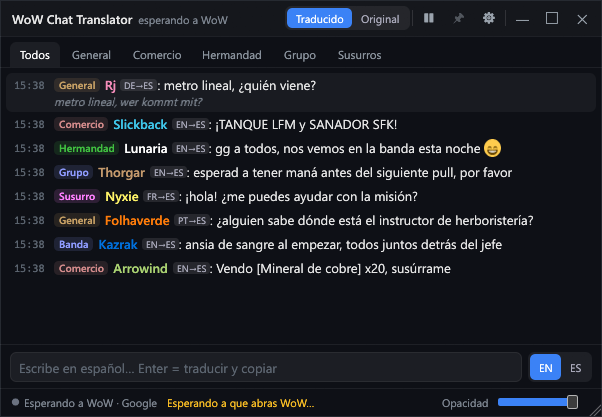
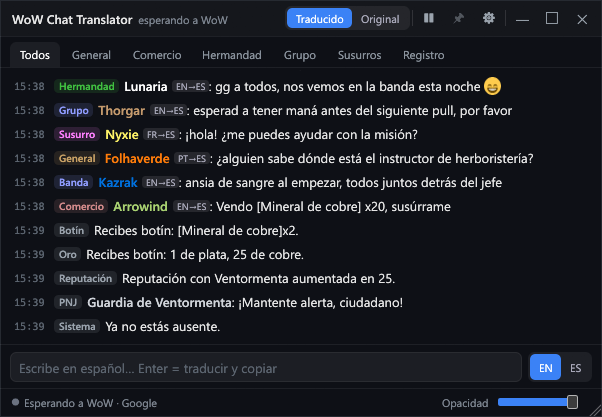
feat(native): right-click Ver original per message instead of hover; offline sample screenshots

diff --git a/native/src/app/ui.rs b/native/src/app/ui.rs
@@ -1,6 +1,8 @@
 //! The overlay window drawing (port of `app/src/renderer/overlay.html` + `overlay.js`).
 //! Only drawing and input here; state rules live in `messages`, `style`, `shared`.
 
+use std::cell::Cell;
+use std::collections::HashSet;
 use std::sync::{Arc, Mutex};
 use std::time::{Duration, Instant};
 
@@ -15,7 +17,7 @@ use crate::core::pipeline::{OverlayItem, Status, UiEvent};
 use crate::core::prefs::Bounds;
 
 use super::compose::{self, copied_message, failed_message, translate_outgoing, OUT_LANGS};
-use super::messages::{badge, can_translate, shows_translation, BadgeKind, Mode, Row, Tab};
+use super::messages::{badge, can_translate, flip_label, row_mode, shows_translation, BadgeKind, Mode, Row, Tab};
 use super::settings::{self, SettingsState};
 use super::shared::Shared;
 use super::style::{self, channel_label, class_color, tab_color};
@@ -48,8 +50,9 @@ pub struct OverlayApp {
     settings: Arc<Mutex<SettingsState>>,
     icon: Option<Arc<egui::IconData>>,
     compose: Compose,
-    /// `WCT_DEV_STATE=hover`: draws the first translated row as hovered (screenshots).
-    dev_hover: bool,
+    /// Rows the user flipped from the context menu ("Ver original" / "Ver traducción"):
+    /// they show the other text than the global Traducido / Original mode.
+    flipped: HashSet<u64>,
     /// `WCT_DEV_STATE=menu`: draws the row context menu on this message (screenshots).
     dev_menu: Option<u64>,
     /// `WCT_DEV_STATE=select`: drags the mouse over the first message with synthetic
@@ -92,7 +95,7 @@ impl OverlayApp {
             opacity,
             last_bounds: None,
             bounds_dirty_since: None,
-            dev_hover: false,
+            flipped: HashSet::new(),
             dev_menu: None,
             dev_select: None,
             first_row_rect: None,
@@ -110,7 +113,6 @@ impl OverlayApp {
         for part in spec.split(',').map(str::trim) {
             match part.split_once('=') {
                 Some(("settings", pane)) => settings::dev_open(ctx, &self.shared, &self.settings, pane),
-                _ if part == "hover" => self.dev_hover = true,
                 _ if part == "menu" => self.dev_menu = Some(900_001),
                 _ if part == "select" => self.dev_select = Some(0),
                 _ if part == "addon" => super::addon_panel::dev_open(&self.shared),
@@ -291,6 +293,7 @@ impl OverlayApp {
         let (picked, over) = widgets::segmented(ui, Id::new("mode-seg"), &items, self.mode, pad, 20.0);
         if let Some(mode) = picked {
             self.mode = mode;
+            self.flipped.clear(); // the global switch sets every row again
             self.scroll_to_bottom = true;
         }
         over
@@ -327,6 +330,7 @@ impl OverlayApp {
 
     fn messages(&mut self, ui: &mut Ui, font_size: f32) {
         let mut clicked = None;
+        let mut flip = None;
         {
             let model = self.shared.model();
             // Dragging over the list selects text (like Electron), it does not scroll it.
@@ -345,13 +349,11 @@ impl OverlayApp {
                 ui.style_mut().interaction.selectable_labels = true;
                 ui.spacing_mut().item_spacing.y = 0.0;
                 let mut any = false;
-                let mut force_hover = self.dev_hover;
                 let mut row_index = 0;
                 for row in model.list.visible() {
                     any = true;
-                    let forced = force_hover && shows_translation(&row.item, self.mode);
-                    force_hover &= !forced;
-                    let resp = message_row(ui, row, self.mode, font_size, forced || self.dev_menu == Some(row.item.id));
+                    let mode = row_mode(self.mode, self.flipped.contains(&row.item.id));
+                    let resp = message_row(ui, row, mode, font_size, self.dev_menu == Some(row.item.id));
                     if self.first_row_rect.is_none() || row_index == 0 {
                         self.first_row_rect = Some(resp.rect);
                     }
@@ -359,7 +361,7 @@ impl OverlayApp {
                     if resp.clicked() && can_translate(&row.item) {
                         clicked = Some(row.item.id);
                     }
-                    let shown = if shows_translation(&row.item, self.mode) {
+                    let shown = if shows_translation(&row.item, mode) {
                         row.item.translated.clone().unwrap_or_default()
                     } else {
                         row.item.original.clone()
@@ -370,8 +372,16 @@ impl OverlayApp {
                             shared.log.write(&format!("copy failed: {e}"));
                         }
                     };
+                    let flip_clicked = Cell::new(false);
                     let menu = |ui: &mut Ui| {
                         widgets::field_style(ui);
+                        if let Some(label) = flip_label(&row.item, mode) {
+                            if ui.button(label).clicked() {
+                                flip_clicked.set(true);
+                                ui.close();
+                            }
+                            ui.separator();
+                        }
                         if ui.button("Copiar mensaje").clicked() {
                             copy(&shown);
                             ui.close();
@@ -394,6 +404,9 @@ impl OverlayApp {
                     } else {
                         resp.context_menu(menu);
                     }
+                    if flip_clicked.get() {
+                        flip = Some(row.item.id);
+                    }
                 }
                 if !any {
                     ui.add_space(30.0);
@@ -402,6 +415,11 @@ impl OverlayApp {
                     });
                 }
             });
+        }
+        if let Some(id) = flip {
+            if !self.flipped.remove(&id) {
+                self.flipped.insert(id);
+            }
         }
         if let Some(id) = clicked {
             self.shared.translate_by_id(id);
@@ -746,16 +764,14 @@ fn tab_button(ui: &mut Ui, label: &str, on: bool, count: Option<u32>) -> Respons
 }
 
 /// One chat line: time, channel tag, player, badge, text (with colored emoji).
-fn message_row(ui: &mut Ui, row: &Row, mode: Mode, fs: f32, force_hover: bool) -> Response {
+/// One message. `highlight` draws it as hovered (screenshots of its context menu).
+fn message_row(ui: &mut Ui, row: &Row, mode: Mode, fs: f32, highlight: bool) -> Response {
     let item = &row.item;
     let show_t = shows_translation(item, mode);
     let clickable = can_translate(item);
     let bg_slot = ui.painter().add(Shape::Noop);
     let body_h = fs * 1.35;
     let row_id = Id::new(("msg-row", item.id));
-    // `.m:hover .orig`: hover is judged on the whole row as drawn last frame, so the
-    // original line shows up in the same frame the pointer enters the row.
-    let hovered = force_hover || ui.ctx().read_response(row_id).is_some_and(|r| ui.rect_contains_pointer(r.rect));
 
     let inner = Frame::new().inner_margin(Margin::symmetric(8, 3)).show(ui, |ui| {
         ui.set_width(ui.available_width());
@@ -797,12 +813,6 @@ fn message_row(ui: &mut Ui, row: &Row, mode: Mode, fs: f32, force_hover: bool) -
                     let shown = if log.is_some() && item.player.is_empty() { text.to_string() } else { format!(": {text}") };
                     EmojiLabel::new(RichText::new(shown).color(color)).show(ui);
                 });
-                if hovered && show_t {
-                    ui.add(
-                        egui::Label::new(RichText::new(&item.original).italics().size(fs * 0.88).color(style::MUTED))
-                            .wrap(),
-                    );
-                }
             });
         });
     });
@@ -811,7 +821,7 @@ fn message_row(ui: &mut Ui, row: &Row, mode: Mode, fs: f32, force_hover: bool) -
     // Click only (never drag): a press-and-drag goes to the selectable labels below and
     // selects text, a plain click translates paused rows, a right click opens the menu.
     let resp = ui.interact(rect, row_id, Sense::click());
-    if hovered || resp.hovered() {
+    if highlight || resp.hovered() {
         let fill = if clickable { with_alpha(style::ACCENT, 36) } else { white(0.05) };
         ui.painter().set(bg_slot, egui::epaint::RectShape::filled(rect, 6.0, fill));
     }

diff --git a/native/tests/app.rs b/native/tests/app.rs
@@ -3,7 +3,7 @@
 
 use wow_chat_translator::app::debug_log::{iso_utc, DebugLog};
 use wow_chat_translator::app::game_watcher::{GameChange, GameWatcher};
-use wow_chat_translator::app::messages::{badge, can_translate, shows_translation, BadgeKind, MessageList, Mode, Tab, MAX_ITEMS};
+use wow_chat_translator::app::messages::{badge, can_translate, flip_label, row_mode, shows_translation, BadgeKind, MessageList, Mode, Tab, MAX_ITEMS};
 use wow_chat_translator::app::presence::PresenceGate;
 use wow_chat_translator::app::style::{channel_label, class_color, hhmm, tab_color, translator_label, ReaderState};
 use wow_chat_translator::core::pipeline::{ItemPatch, OverlayItem, Status, UiEvent};
@@ -300,6 +300,20 @@ fn translation_is_shown_only_in_translated_mode_when_present() {
     it.translated = Some("hola".into());
     assert!(shows_translation(&it, Mode::Translated));
     assert!(!shows_translation(&it, Mode::Original));
+}
+
+#[test]
+fn a_flipped_row_shows_the_other_text_and_its_menu_entry_names_it() {
+    let mut it = item(1, None);
+    // Nothing to flip without a translation (log lines, Spanish, not translated yet).
+    assert_eq!(row_mode(Mode::Translated, true), Mode::Original);
+    assert_eq!(flip_label(&it, Mode::Translated), None);
+    it.translated = Some("hola".into());
+    assert_eq!(row_mode(Mode::Translated, false), Mode::Translated);
+    assert_eq!(row_mode(Mode::Original, true), Mode::Translated);
+    assert_eq!(flip_label(&it, row_mode(Mode::Translated, false)), Some("Ver original"));
+    assert_eq!(flip_label(&it, row_mode(Mode::Translated, true)), Some("Ver traducción"));
+    assert_eq!(flip_label(&it, row_mode(Mode::Original, false)), Some("Ver traducción"));
 }
 
 #[test]

diff --git a/native/src/app/messages.rs b/native/src/app/messages.rs
@@ -175,6 +175,23 @@ pub fn shows_translation(item: &OverlayItem, mode: Mode) -> bool {
     mode == Mode::Translated && item.translated.is_some()
 }
 
+/// The mode one row is drawn in: the global mode, or the other one when the user
+/// flipped that row from its context menu.
+pub fn row_mode(global: Mode, flipped: bool) -> Mode {
+    match (global, flipped) {
+        (m, false) => m,
+        (Mode::Translated, true) => Mode::Original,
+        (Mode::Original, true) => Mode::Translated,
+    }
+}
+
+/// The context-menu entry that flips a row drawn in `mode`; `None` when the message
+/// has no translation to switch to.
+pub fn flip_label(item: &OverlayItem, mode: Mode) -> Option<&'static str> {
+    item.translated.as_ref()?;
+    Some(if shows_translation(item, mode) { "Ver original" } else { "Ver traducción" })
+}
+
 /// Paused and failed messages can be translated with a click.
 pub fn can_translate(item: &OverlayItem) -> bool {
     matches!(item.status, Status::Paused | Status::Error)

diff --git a/native/src/app/run.rs b/native/src/app/run.rs
@@ -80,7 +80,13 @@ pub fn run() -> eframe::Result {
                 shared.log.write(&format!("tray failed: {e}"));
             }
             workers::spawn(shared.clone(), job_rx);
-            monitor::spawn(shared.clone());
+            // Screenshots with sample messages never read the real game strip, so no
+            // live chat (real player names) ends up in them.
+            let samples_only = win::dev_capture()
+                && std::env::var("WCT_DEV_STATE").is_ok_and(|s| s.split(',').any(|p| p.trim() == "sample"));
+            if !samples_only {
+                monitor::spawn(shared.clone());
+            }
             hotkey::spawn(shared.clone());
             let icon = eframe::icon_data::from_png_bytes(ICON_256).ok().map(Arc::new);
             Ok(Box::new(OverlayApp::new(shared, started_hidden, icon)))

diff --git a/odd/tasks/chat-log-tooltips.md b/odd/tasks/chat-log-tooltips.md
@@ -17,9 +17,9 @@ Branch: feat/chat-log-tooltips (from feat/egui-app = origin/main). Delivery: ask
 
 | ID | Specs | Work | Route | Status | Evidence |
 |---|---|---|---|---|---|
-| T1 | S1, S2, S5, S6 | Addon: log events on a low-priority queue, item id kept in links. App: decode log + item ids, "Registro" tab, log switch in Ajustes (default off), docs | delegated (context backstop) | pending | |
+| T1 | S1, S2, S5, S6 | Addon: log events on a low-priority queue, item id kept in links. App: decode log + item ids, "Registro" tab, log switch in Ajustes (default off), docs | delegated (context backstop) | done | 73f918d; RED (compile) -> GREEN 179/179 |
 | T2 | S3, S4 (WoW), S2, S5 | Addon: tooltip frames per item (once per session, low priority). App: tooltip cache, hover panel, selector "Datos de objetos" (default Desactivado) | delegated (context backstop) | pending | |
-| T1b | S7 | Remove hover-original, add per-message "Ver original"/"Ver traducción" to the context menu, update README + overlay screenshot | inline, after T1 (same file ui.rs) | pending | |
+| T1b | S7 | Remove hover-original, add per-message "Ver original"/"Ver traducción" to the context menu, update README + overlay screenshot | inline, after T1 (same file ui.rs) | done | RED (row_mode/flip_label missing) -> GREEN 180/180; see L6 |
 | T3 | S3, S4 (Wowhead) | App: Wowhead source (verify endpoint, flavor/dataEnv mapping, locale), cache, errors, docs | delegated (context backstop) | pending | |
 
 ## Log
@@ -28,3 +28,5 @@ Branch: feat/chat-log-tooltips (from feat/egui-app = origin/main). Delivery: ask
 - **L2** (2026-11-07, user, verbatim): "Para que no se ensucie el proposito, pienso que esas opciones adicionales deban ser activables por la configuración.pienso que puedes poner las 2 alternativas configurable"
 - **L3** Design decisions (parent): the strip is one-way (game → app), so the addon always sends log/tooltip frames at low priority and the app shows or hides them per its settings. Strip budget: MAX_PAYLOAD = 540 bytes per frame, one frame per 0.1 s. Log lines are not translated. Route: writers are delegated per task because the parent session is past the long-session context backstop; tasks are sequential (shared addon file and protocol), not parallel.
 - **L4** (2026-11-07, user, verbatim): "Creo que para que funcione mejor quitaríamos la característica de ver el lenguaje original cuando damos hover a un mensaje, ya que tenemos que acercar el mouse a los items, podríamos añadir acción al click derecho tal vez con opciones de copiar texto o ver mensaje original o simplemente cambiar el tab de traducido a original como ya tenemos". Parent decision among the offered options: per-message toggle in the context menu plus the existing global toggle. Added S7 / T1b.
+- **L5** (2026-11-07): T1 by a bounded writer. Protocol: links `[Name]<type>:<id>` (ref optional, old form decodes); log labels Loot, Money, Currency, System, XP, Reputation, Skill, Achievement, NPC, BossEmote, Emote; low-priority log queue (cap 200), chat first; `prefs.showLog` default false; Registro tab hidden while off; addon 0.3.0. Parent fix before commit: log labels are sent as `*Loot`... (channel names cannot contain `*`) so a player channel named "Loot"/"System" stays chat; RED (3 tests) -> GREEN 179. No Lua parser on this machine: Lua reviewed by hand only. Risk: item 3 (protocol additions).
+- **L6** (2026-11-07): T1b inline: hover-original removed; context menu gets "Ver original"/"Ver traducción" per row (`row_mode`, `flip_label`), flips cleared by the global toggle; dev `hover` state removed. Screenshot mode with `sample` no longer starts the strip reader (a live guild message from the user's open WoW had appeared in a capture). README caption, bullet and screenshots (overlay.png with Registro, new menu.png) updated. GREEN 180/180. Next: T2.

diff --git a/README.md b/README.md
@@ -14,7 +14,7 @@ Traducción en tiempo real · Respuestas en un atajo · Gratis y de código abie
 
 <p align="center">
   <img src="docs/screenshots/overlay.png" alt="Chat de WoW traducido al español, con pestañas por canal y colores de clase" width="602">
-  <br><sub>Pasa el ratón por un mensaje para ver el original.</sub>
+  <br><sub>Chat traducido con pestañas por canal, y el Registro opcional (botín, oro, sistema, PNJ) debajo.</sub>
 </p>
 
 ---
@@ -37,7 +37,10 @@ y te deja contestar en inglés escribiendo en español.
 ## ✨ Lo que hace
 
 - 🌍 **Traducción al instante** de cualquier idioma al español: inglés, alemán, francés, portugués…
-- 🔁 **Traducido u original** con un clic, y pasa el ratón por encima de un mensaje para ver el texto original.
+- 🔁 **Traducido u original** para todo el chat con un clic arriba, o solo para un mensaje con **clic derecho → Ver original**. El mismo menú copia el mensaje, el original o el nombre.
+
+  <img src="docs/screenshots/menu.png" alt="Menú de clic derecho con Ver original y opciones para copiar" width="480">
+
 - 🗂 **Pestañas por canal**: Todos, General, Comercio, Hermandad, Grupo y Susurros.
 - 📜 **Registro del chat (opcional)**: activa *Ajustes → General → Registro del chat* para ver también botín, oro, sistema, experiencia, reputación, logros, PNJ y emociones en la pestaña **Registro**, sin traducir. Viene desactivado.
 - 🎨 **Colores de clase** y nombres como en el juego. Los enlaces de objetos, misiones y logros **no se traducen**.
